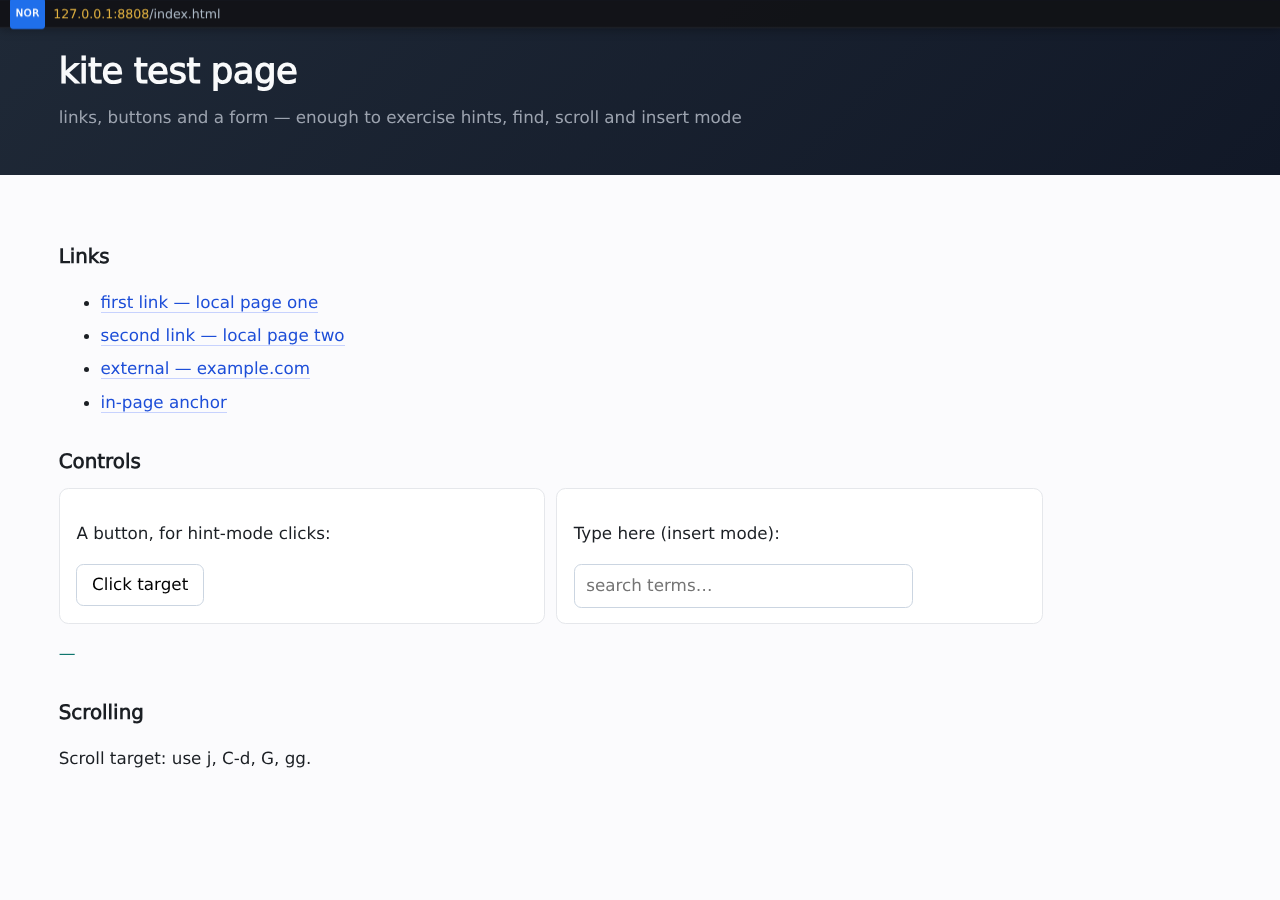
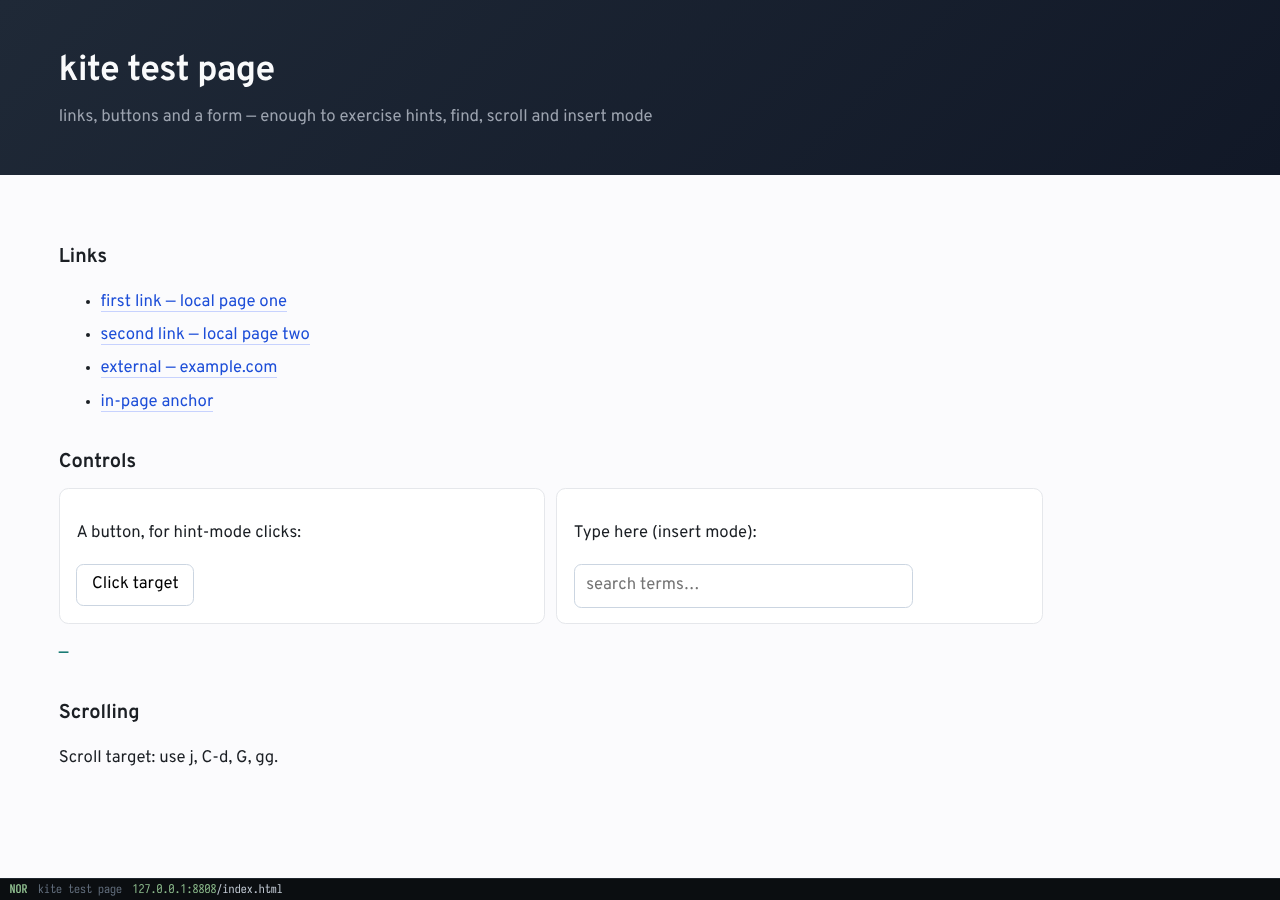
docs: document window chrome and refresh screenshots
Explain why Chromium's UI and frame no longer appear (app mode, the
about:blank fallback, new tabs as app windows, Motif hints on X11),
document the decorations/fullscreen settings and the flags, update the
"each tab is its own window" limitation, and replace the screenshots with
the new interface.

diff --git a/README.md b/README.md
@@ -8,7 +8,11 @@ browser look like if you delete the Python and the Qt, keep the Chromium engine,
 and make the chrome as cheap as a text field?* The target machine is a slow ARM
 board with a keyboard — not a workstation.
 
-![the chrome bar](docs/img/bar.png)
+The chrome is one status line at the bottom of the page, drawn in monospace on a
+grid, in the spirit of a terminal UI: no rounded cards, no shadows, no browser
+toolbar, and no window frame.
+
+![the status line](docs/img/bar.png)
 
 ## The short version
 
@@ -17,7 +21,7 @@ board with a keyboard — not a workstation.
 | Engine | QtWebEngine (Chromium, embedded) | system Chromium, separate process |
 | Shell | Python + Qt | Rust, one 922 KB binary |
 | Keys | Qt event → Python command registry | Chromium key path → one JS handler |
-| UI | Qt widgets | shadow-DOM overlay, no DOM of its own |
+| UI | Qt widgets | shadow-DOM overlay: one bottom status line |
 | NixOS | package | package + flake + `programs.kite` module |
 
 The shell never embeds the engine. It launches Chromium, speaks the Chrome
@@ -58,6 +62,37 @@ Two consequences worth stating plainly:
   so moving the chrome *into* the page is not a compromise, it is the only
   correct shape.
 
+## No Chromium UI, no window frame
+
+Chromium is the engine, not the interface. Three things keep its own chrome out
+of the way:
+
+- **App mode, always.** Every window is created with `--app=<url>`, which gives a
+  single page with no tab strip, no omnibox and no toolbar. Two details matter:
+  Chromium silently refuses `--app=about:blank` and opens a *full browser
+  window* instead, so kite boots on a dark `data:` placeholder and navigates from
+  there; and `Target.createTarget` always builds a tabbed browser window, so new
+  tabs ask the live browser for another app window instead.
+- **No title bar.** With `decorations = false` (the default) kite asks Chromium
+  for an undecorated surface on Wayland, and strips the window-manager frame on
+  X11 with the Motif hint (`_MOTIF_WM_HINTS` via `xdotool` + `xprop`, re-applied
+  to each new tab). Compositors like niri and sway draw no server-side
+  decorations at all, so the page fills its tile edge to edge.
+- **A way out.** `fullscreen = true` (or `kite --fullscreen`) starts the window
+  fullscreen, which removes every frame on every compositor, including ones that
+  ignore Motif hints (GNOME). `kite --decorated` restores a normal window.
+
+```toml
+[general]
+decorations = false   # no title bar / borders
+fullscreen = false    # start fullscreen instead
+```
+
+On Wayland the frame is the compositor's business; kite cannot override a
+compositor that insists on drawing one. If a border or gap remains, the rule
+belongs in the compositor config (for example niri's `border { off }` window
+rule, or sway's `default_border none`).
+
 ## What works (verified)
 
 Checked by driving a real Chromium under a real X server (`dev/harness.sh`):
@@ -71,7 +106,11 @@ Checked by driving a real Chromium under a real X server (`dev/harness.sh`):
   palettes for history, bookmarks, tabs and search engines. Verified: `ope` lists
   `open`, `open-tab`, `tab-undo`, `private`, `external`.
 - **Tabs** — `t`, `d`, `gt`/`gT`, `g1`/`g9`, `u` (reopen closed). Verified:
-  creating, switching and closing change the model correctly.
+  creating, switching and closing change the model correctly, and a new tab is
+  an app window with no Chromium chrome.
+- **Window chrome** — no title bar, no tab strip, no toolbar. Verified under
+  Xvfb + i3 (the WM frame is stripped) and by the Wayland decoration and
+  `--app=` behaviour in `WAYLAND_DEBUG` logs.
 - **Insert mode** — typing in a field switches automatically; `Esc` returns to
   normal. Verified: `gi` focuses the first input and the chip turns green `INS`.
 - **Scrolling** — `j`/`k`, `C-d`/`C-u`, `C-f`/`C-b`, `gg`/`G`, counts. Verified:
@@ -218,12 +257,13 @@ afternoon.
 
 ## Known limitations
 
-1. **Each tab is its own window.** In `--app` mode Chromium gives a window a
-   single tab, so a second `Target.createTarget` opens another window. kite's bar
-   lists all tabs and switching raises the right window, but your window manager
-   will show several windows. A single-window multi-tab setup needs either
-   Chromium's own tab strip (visible chrome) or engine embedding — both are
-   deliberate trade-offs, not bugs.
+1. **Each tab is its own window.** Chromium's app windows hold one page each, so
+   `t` asks the live browser for another app window. kite's status line lists all
+   tabs and switching raises the right window, but your window manager will show
+   several windows. A single-window multi-tab setup needs either Chromium's own
+   tab strip (visible chrome) or engine embedding — both are deliberate
+   trade-offs, not bugs. Private tabs still use a CDP browser context, which
+   means they come back as a tabbed browser window.
 2. **The UI layer runs in the page's main world.** A hostile page could call the
    binding (`__kiteSend`) directly. The fix is an isolated world plus an origin
    check; it is not implemented.
@@ -268,7 +308,8 @@ src/engine.rs   Chromium supervisor and the performance flag set
 src/shell.rs    tabs, navigation, privileged commands, completions, session
 src/store.rs    history, bookmarks, session (JSON, atomic writes)
 src/config.rs   TOML defaults, deep merge, key-sequence normalisation
-src/ui.js       injected chrome: bar, palette, hints, keymap, help
+src/wm.rs       strips the X11 window frame from the engine's windows
+src/ui.js       injected chrome: status line, palette, hints, keymap, help
 nix/            package, NixOS module, desktop entry, icon
 dev/            headless GUI harness, benchmark, GPU-flag probe
 ```
